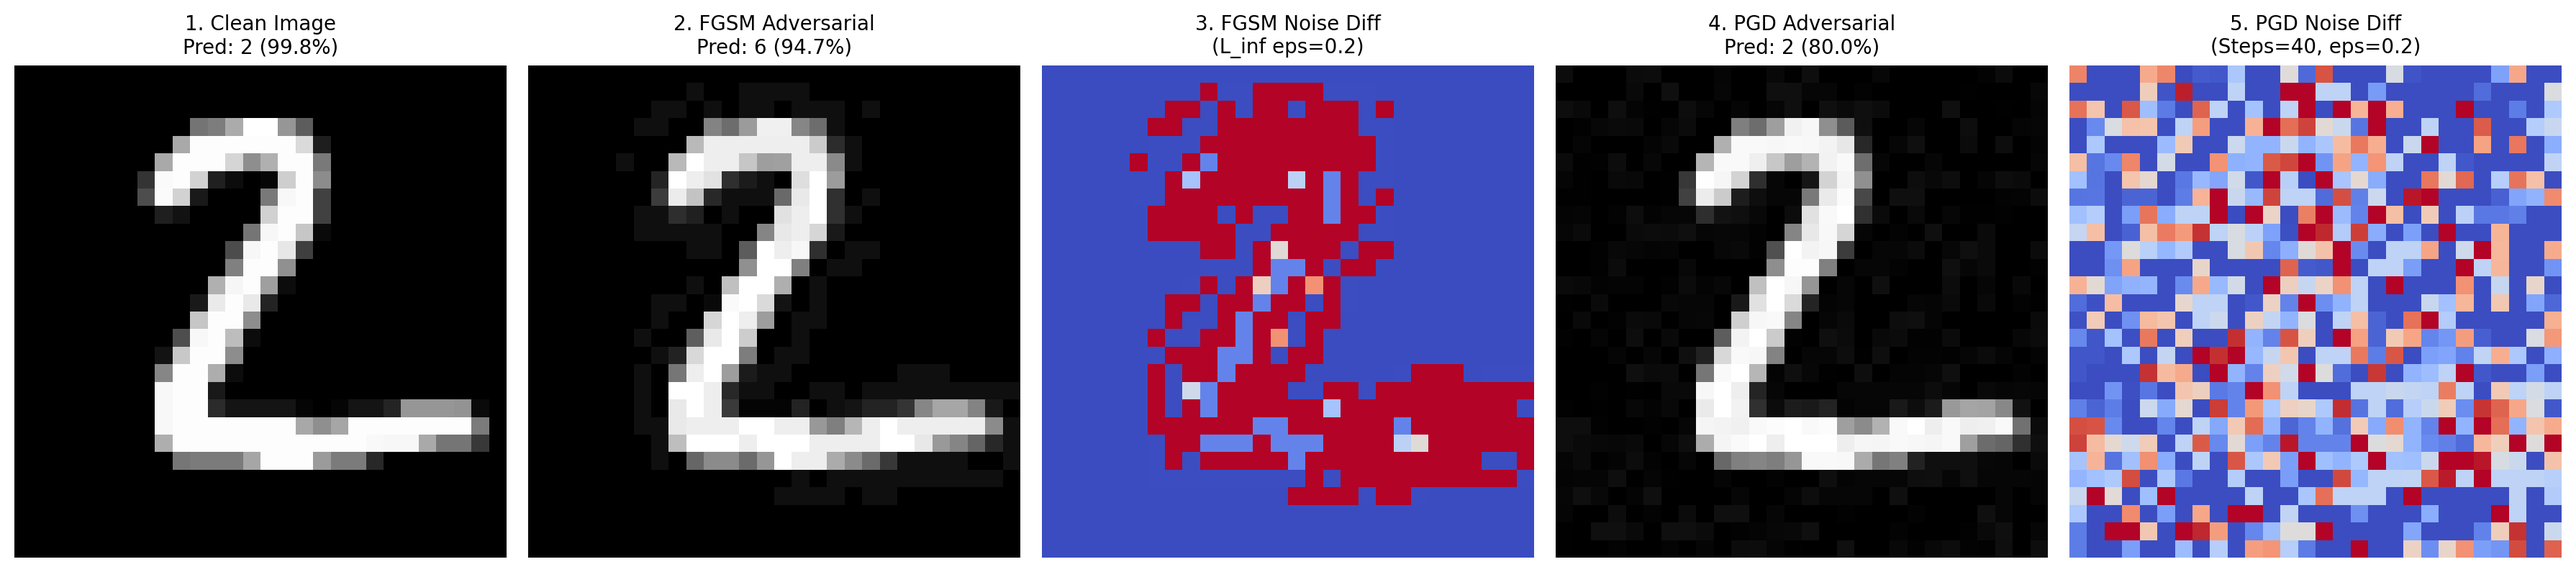
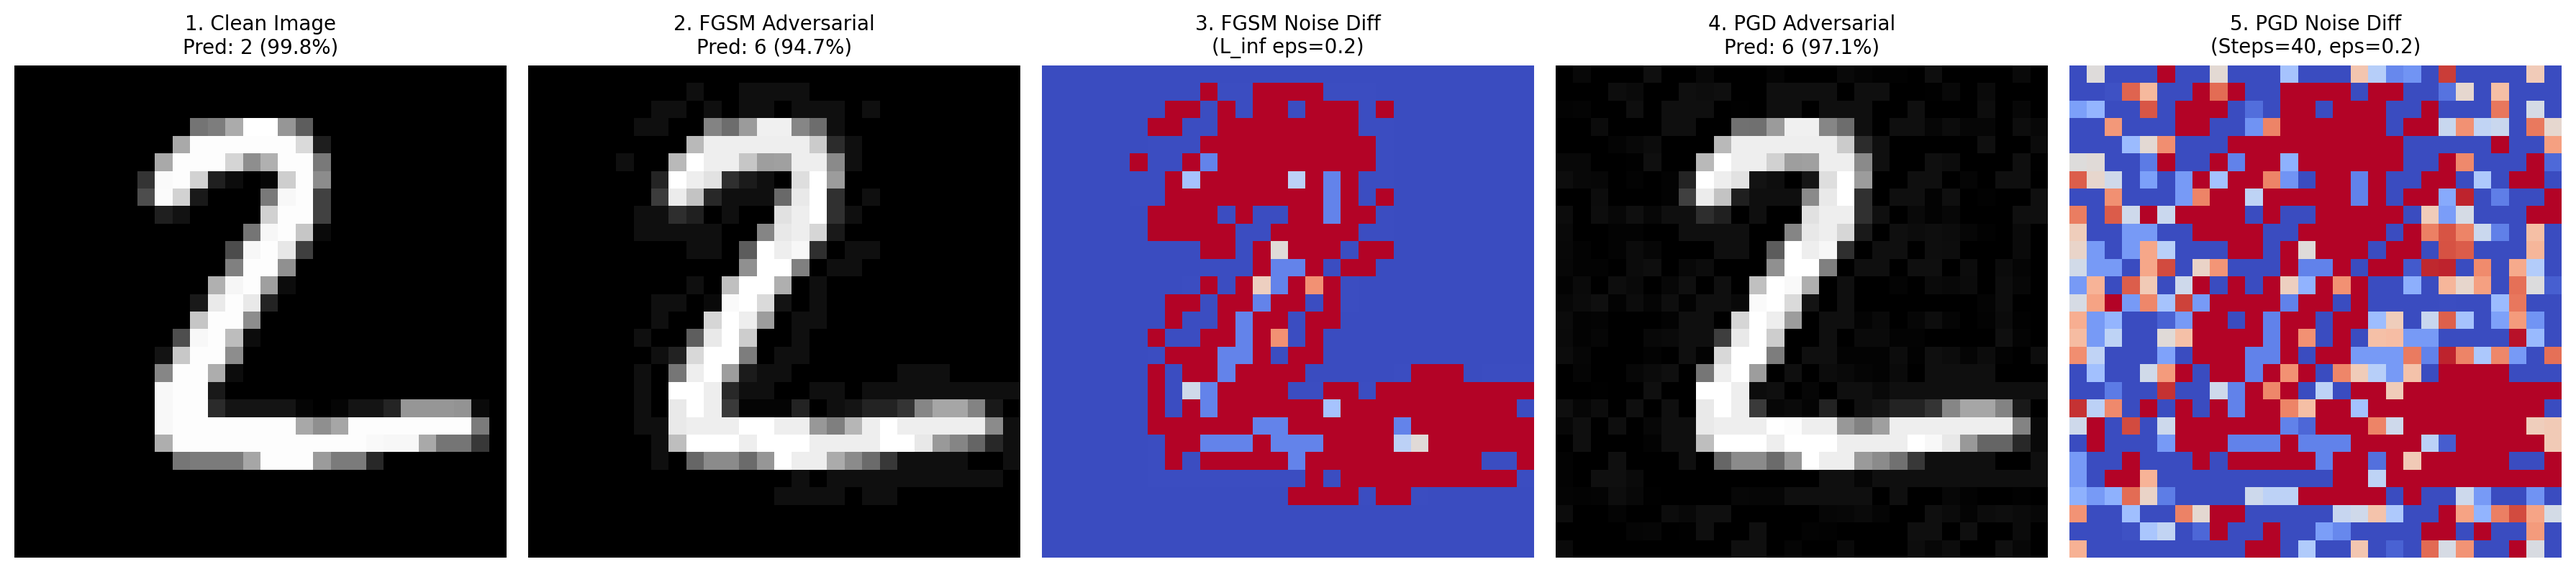
changed stepsize of Pgd from 0.01 to 0.2

diff --git a/attack.py b/attack.py
@@ -55,7 +55,7 @@ def main():
     # Attack Hyperparameters
     EPSILON = 0.2
     fgsm_attack = fb.attacks.FGSM()
-    pgd_attack = fb.attacks.LinfPGD(steps=40, rel_stepsize=0.01)
+    pgd_attack = fb.attacks.LinfPGD(steps=40, rel_stepsize=0.2)
 
     # Search for a correctly classified sample where attacks demonstrate clear adversarial perturbation
     image_tensor, label_tensor, clean_pred, clean_logits = None, None, None, None
